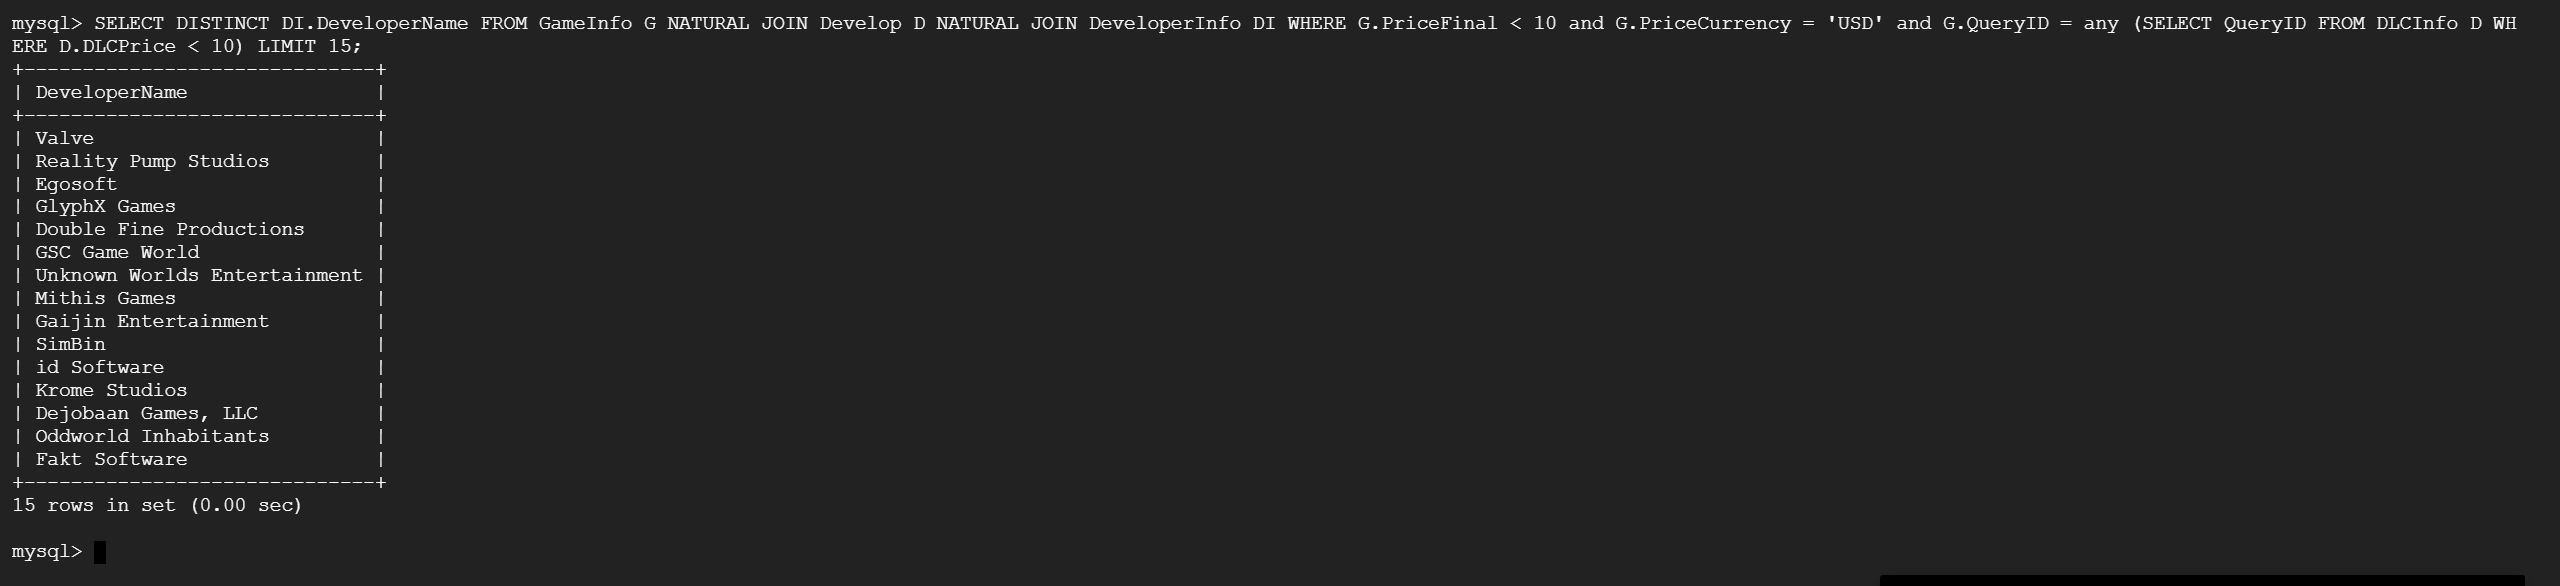
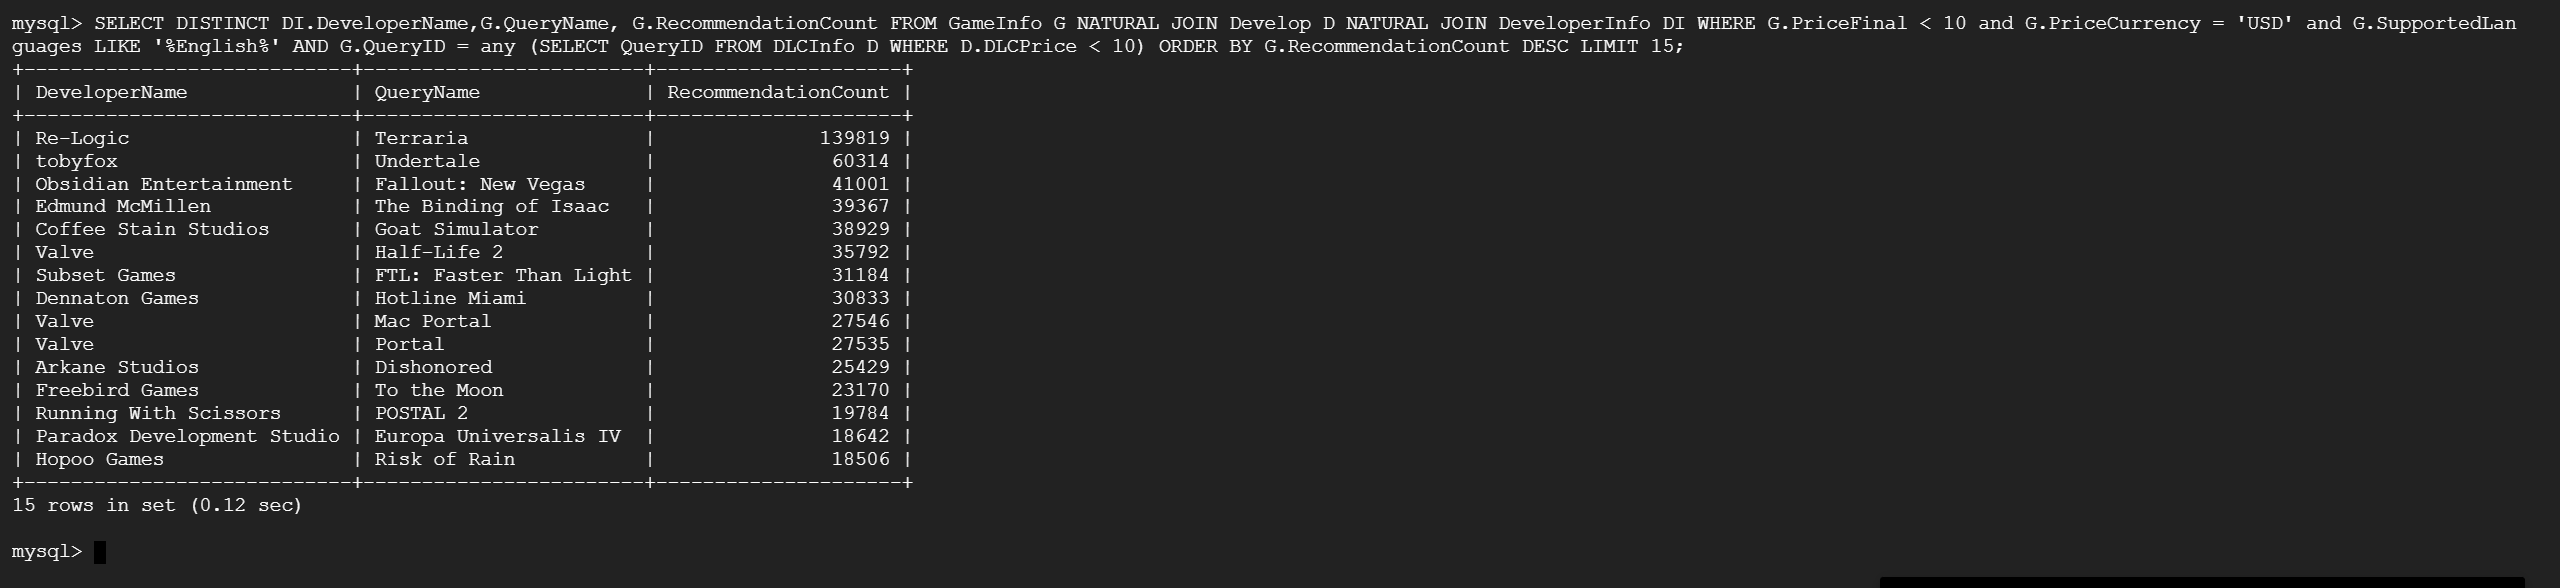
stage 3 - add paragrapgh and pictures for query 2

diff --git a/doc/Stage_3_Database_Design.md b/doc/Stage_3_Database_Design.md
@@ -157,18 +157,18 @@ It find all "Action" games and we add a constraint that the description and Reco
 ### Query 2
 
 ```sql
-SELECT DISTINCT DI.DeveloperName 
+SELECT DISTINCT DI.DeveloperName, G.QueryName, G.RecommendationCount
 FROM GameInfo G NATURAL JOIN Develop D NATURAL JOIN DeveloperInfo DI
-WHERE G.PriceFinal < 10 and G.PriceCurrency = 'USD'
-AND G.QueryID = any (
-	SELECT QueryID
+WHERE G.PriceFinal < 10 AND G.PriceCurrency = 'USD' AND G.SupportedLanguages LIKE '%English%' AND G.QueryID = any (
+ SELECT QueryID
     FROM DLCInfo D
     WHERE D.DLCPrice < 10
 )
+ORDER BY G.RecommendationCount DESC
 LIMIT 15;
 ```
 
-This SQL query retrieves a list of unique developer names who have developed games with a final price less than 10 USD, and also have at least one downloadable content (DLC) priced less than 10. The query joins three tables: GameInfo, Develop, and DeveloperInfo, to obtain the necessary information. The results are then limited to the first 15 rows.
+This SQL query selects unique combinations of developer names, game query names, and the count of recommendations from three tables: GameInfo, Develop, and DeveloperInfo, joined together using natural joins. The results are filtered to include only games that cost less than 10 USD, are supported in English, have a developer with a listed website, and have associated downloadable content (DLC) that costs less than 10 USD. The results are then ordered by the number of recommendations in descending order, with the top 15 results displayed.
 
 ![Query_2_run](images/Query_2_run.png)
 
@@ -241,6 +241,97 @@ Improvement: Unlike the previous indexes, the this index led to a small but nota
 
 ### Query 2
 
+Default Index:
 
+![Analysis_Q_2_default](images/Analysis_Q_2_default.png)
 
+We added an index on PriceFinal by using:
 
+```sql
+mysql> CREATE INDEX idx_price_final ON GameInfo (PriceFinal);
+Query OK, 0 rows affected (0.23 sec)
+Records: 0  Duplicates: 0  Warnings: 0
+```
+
+We can observe from the EXPLAIN ANALYZE:
+
+- Actual Time: The actual time increased slightly from 48.333 to 49.053 seconds.
+- Cost: The cost went up from 1716.81 to 1903.04.
+
+Findings and Explanation
+
+1. No Improvement: The index did not lead to an improvement in the query's performance. In fact, it increased both the actual time and the cost slightly.
+
+2. Reason for Lack of Improvement:
+    - The query is already complex with multiple joins, semijoins, and a subquery. Adding an index on `PriceFinal` did not have a significant positive impact.
+    - It's possible that the database optimizer did not even use the new index for the query. This could be because the index on `PriceFinal` doesn't help reduce the complexity of other parts of the query.
+    - Adding an index can sometimes even make the query slower due to the overhead of index maintenance.
+
+![Analysis_Q_2_idx_1](images/Analysis_Q_2_idx_1.png)
+
+We added an index on DLCInfo by using:
+
+```sql
+mysql> DROP INDEX idx_dlc_price ON DLCInfo;
+Query OK, 0 rows affected (0.03 sec)
+Records: 0  Duplicates: 0  Warnings: 0
+```
+
+We can observe from the EXPLAIN ANALYZE:
+
+- Actual Time: The actual time increased slightly from 45.218 to 46.915 seconds.
+- Cost: The cost increased slightly from 1716.81 to 1743.26.
+
+Findings and Explanation
+
+1. No Significant Improvement: The seventh index did not lead to a significant improvement in the query's performance. In fact, the actual time and the cost both increased slightly.
+
+2. Reason for Lack of Improvement:
+    - The `EXPLAIN ANALYZE` result shows that the time taken for "Index lookup on D using QueryID" remained the same, indicating that the index on `DLCPrice` didn't optimize that part.
+    - Complex joins and filtering conditions in your SQL query might be dominating the performance characteristics, making the index less useful.
+
+![Analysis_Q_2_idx_2](images/Analysis_Q_2_idx_2.png)
+
+We added an index on QueryName by using:
+
+```sql
+mysql> CREATE INDEX idx_name ON GameInfo (QueryName);
+Query OK, 0 rows affected (0.25 sec)
+Records: 0  Duplicates: 0  Warnings: 0
+```
+
+We can observe from the EXPLAIN ANALYZE:
+
+- Actual Time: The actual time decreased slightly from 48.177 to 44.837 seconds.
+- Cost: The cost remained the same at 1716.81.
+
+Findings and Explanation
+
+1. Minor Improvement: The eighth index led to a minor decrease in the actual time taken to execute the query, although the cost remained the same.
+
+2. Reason for Slight Improvement:
+    - The query appears to perform better in terms of actual execution time, but the cost remains unchanged, indicating that the index might be having a minor positive impact.
+
+![Analysis_Q_2_idx_3](images/Analysis_Q_2_idx_3.png)
+
+We added an index on `RecommendationCount` using the following SQL command:
+
+```sql
+mysql> CREATE INDEX idx_rec_count ON GameInfo (RecommendationCount);
+Query OK, 0 rows affected (0.15 sec)
+Records: 0  Duplicates: 0  Warnings: 0
+```
+
+The motivation for creating this index was to improve the performance of queries that sort the results by the `RecommendationCount` attribute of the `GameInfo` table. 
+
+After adding the index, we noticed significant improvements in the `EXPLAIN ANALYZE` output:
+
+- The actual time for executing the query reduced dramatically, from 47.561-47.565 seconds to 1.121-1.125 seconds.
+
+- The cost associated with the scan on the `GameInfo` table decreased substantially from 1619.19 to 67.52. This indicates a huge reduction in computational overhead.
+
+- Instead of a full table scan, the query is now performing an "Index scan" on `GameInfo` using the `idx_rec_count` index in reverse order. This allows MySQL to fetch sorted data more efficiently, further reducing the time needed to complete the query.
+
+These improvements confirm that adding the index has made the query far more efficient than it was before.
+
+![Analysis_Q_2_idx_4](images/Analysis_Q_2_idx_4.png)
